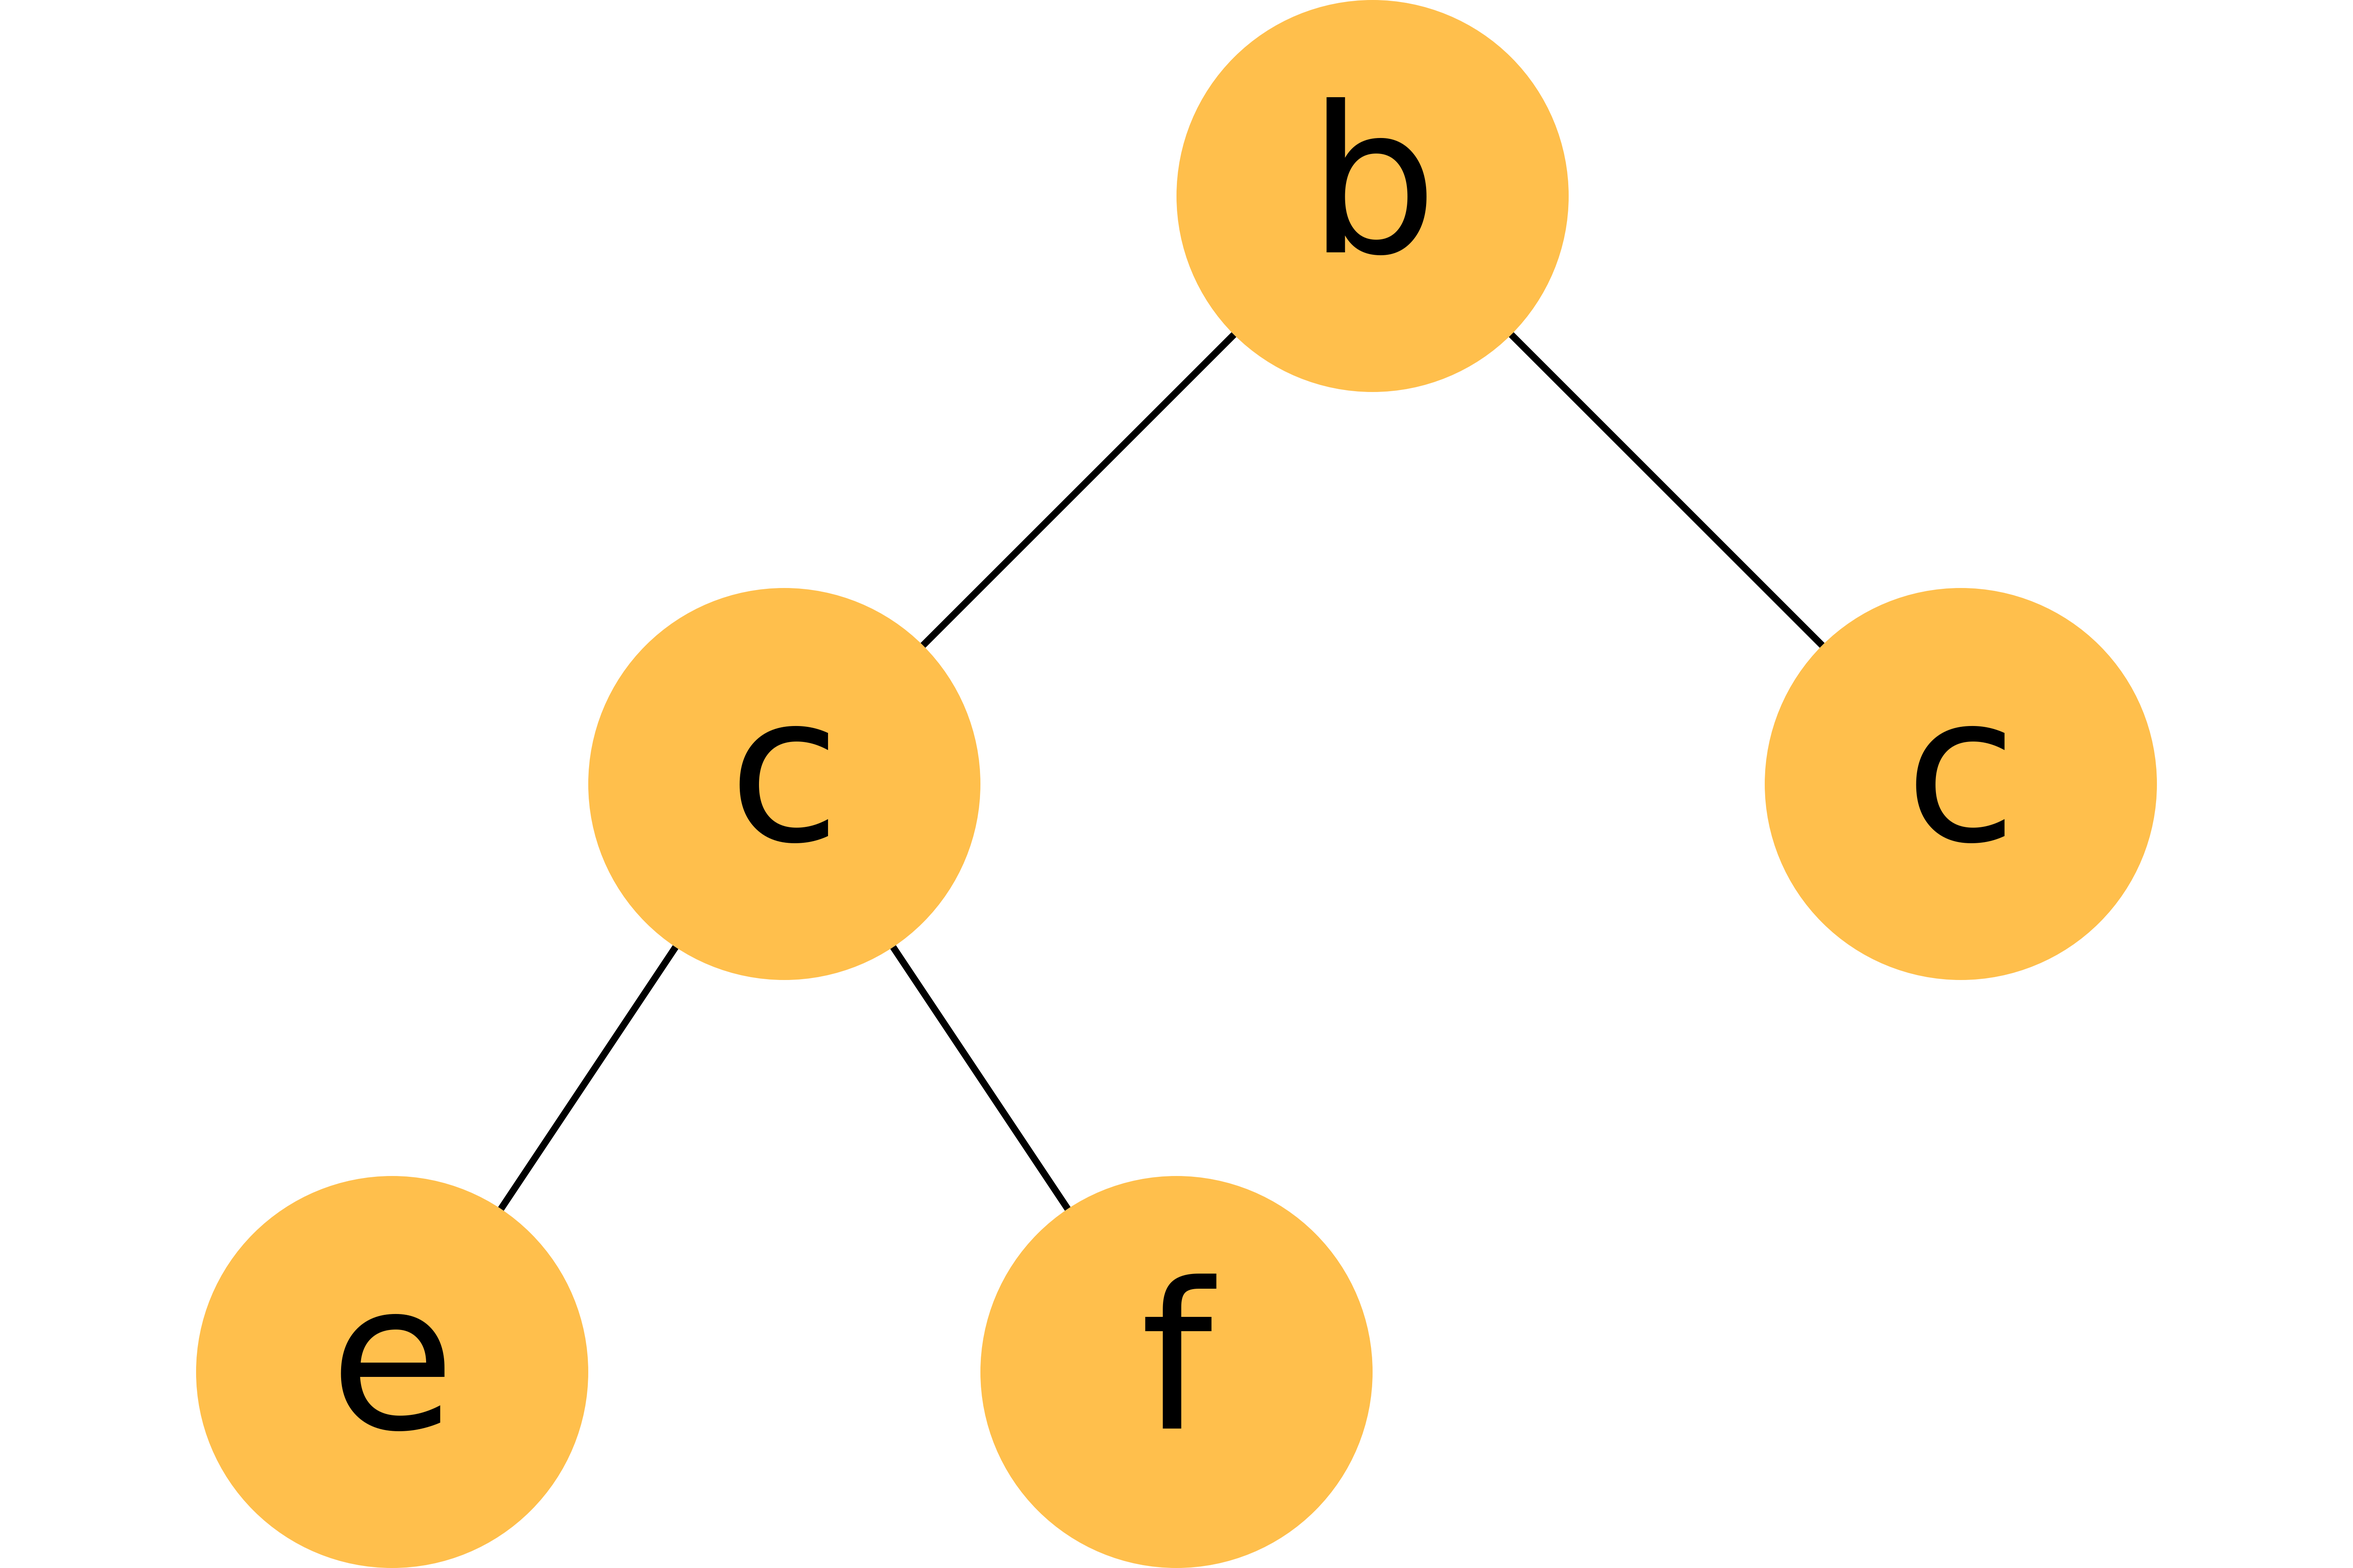
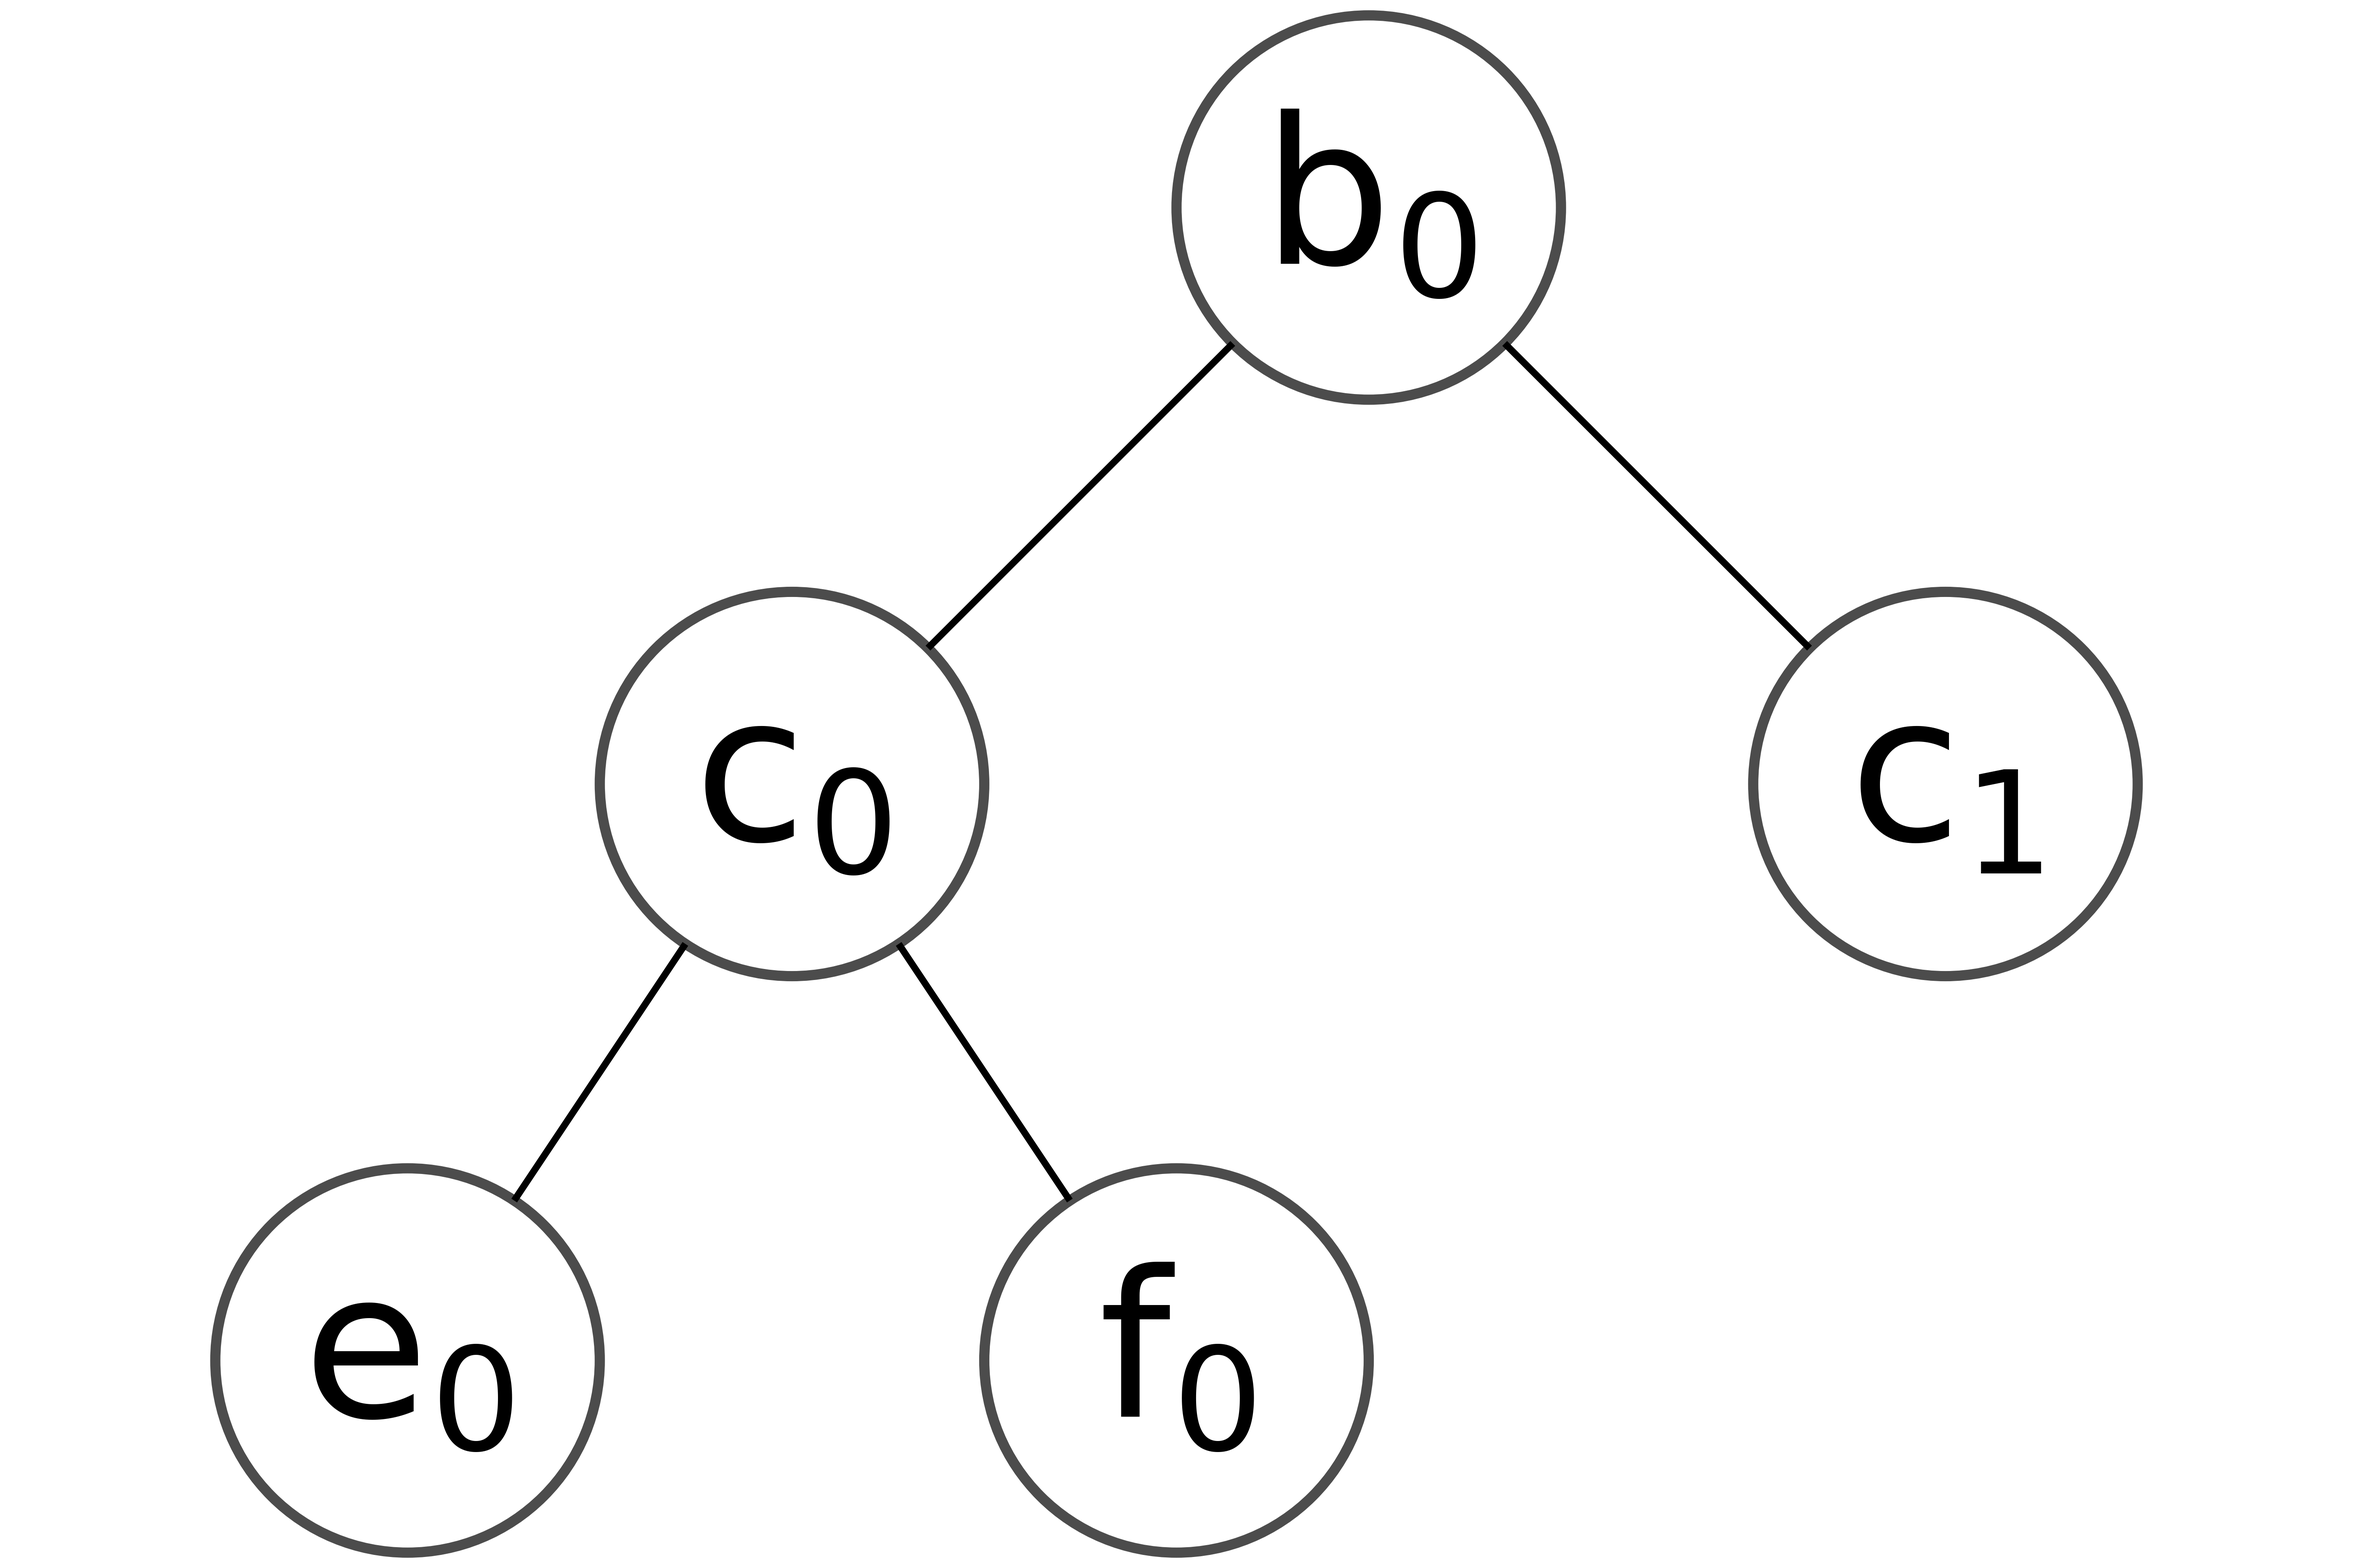
display opt

diff --git a/renderer.py b/renderer.py
@@ -23,7 +23,7 @@ def draw_line(pl: list, ax):
 def draw_circle(pl: list, ax):
 	if len(pl) != 3:
 		print("error: the parameters of draw circle wasn't correct")
-	c = Circle((float(pl[0]), float(pl[1])), float(pl[2]), facecolor="orange", linewidth=3, alpha=0.7)
+	c = Circle((float(pl[0]), float(pl[1])), float(pl[2]), facecolor="white", linewidth=3, alpha=0.7, edgecolor="black")
 	ax.add_patch(c)
 
 
@@ -103,7 +103,8 @@ class Renderer:
 			self.ax.xaxis.set_major_locator(plt.NullLocator())
 			self.ax.yaxis.set_major_locator(plt.NullLocator())
 			plt.subplots_adjust(top=1, bottom=0, left=0, right=1, hspace=0, wspace=0)
-			plt.margins(0, 0)
+			# to avoid losing primitives in corner
+			plt.margins(0.01, 0.01)
 			self.fig.savefig(os.path.join(self.s_dir, str(i) + "." + fmt), dpi=600, format=fmt)
 			plt.close(self.fig)
 
@@ -116,6 +117,6 @@ conf["margin_h"] = 2 * radius
 conf["margin_v"] = 2 * radius
 
 # output_dir must end with // or \
-renderer = Renderer(robt, r".//case1.txt", conf, r".//Data//")
+renderer = Renderer(robt, r".//case2.txt", conf, r".//Data//")
 renderer.sort_command_list()
 renderer.draw("png")

diff --git a/render_object_bracketTree.py b/render_object_bracketTree.py
@@ -26,6 +26,16 @@ def get_text_size(r):
 	return r * 6
 
 
+def modify_label(root, d: dict):
+	for child in root.children:
+		modify_label(child, d)
+	if d.get(root.label) is None:
+		d[root.label] = 0
+	lab = root.label
+	root.label = r"$\mathrm{" + lab + r"}_" + str(d[lab]) + r"$"
+	d[lab] = d[lab] + 1
+
+
 class RenderObjectBracketTree(RenderObject):
 	l_b = "{"
 	r_b = "}"
@@ -87,6 +97,9 @@ class RenderObjectBracketTree(RenderObject):
 				if len(stack) != 1:
 					print("error: parse " + file_path + ", line" + str(i + 1) + " -> can't match full content")
 					return False
+
+				d = {}
+				modify_label(node, d)
 				self.roots.append(node)
 
 	def gen_command(self, root: BracketTreeNode, cur_v, cur_h, r, margin_v, margin_h, commands):
